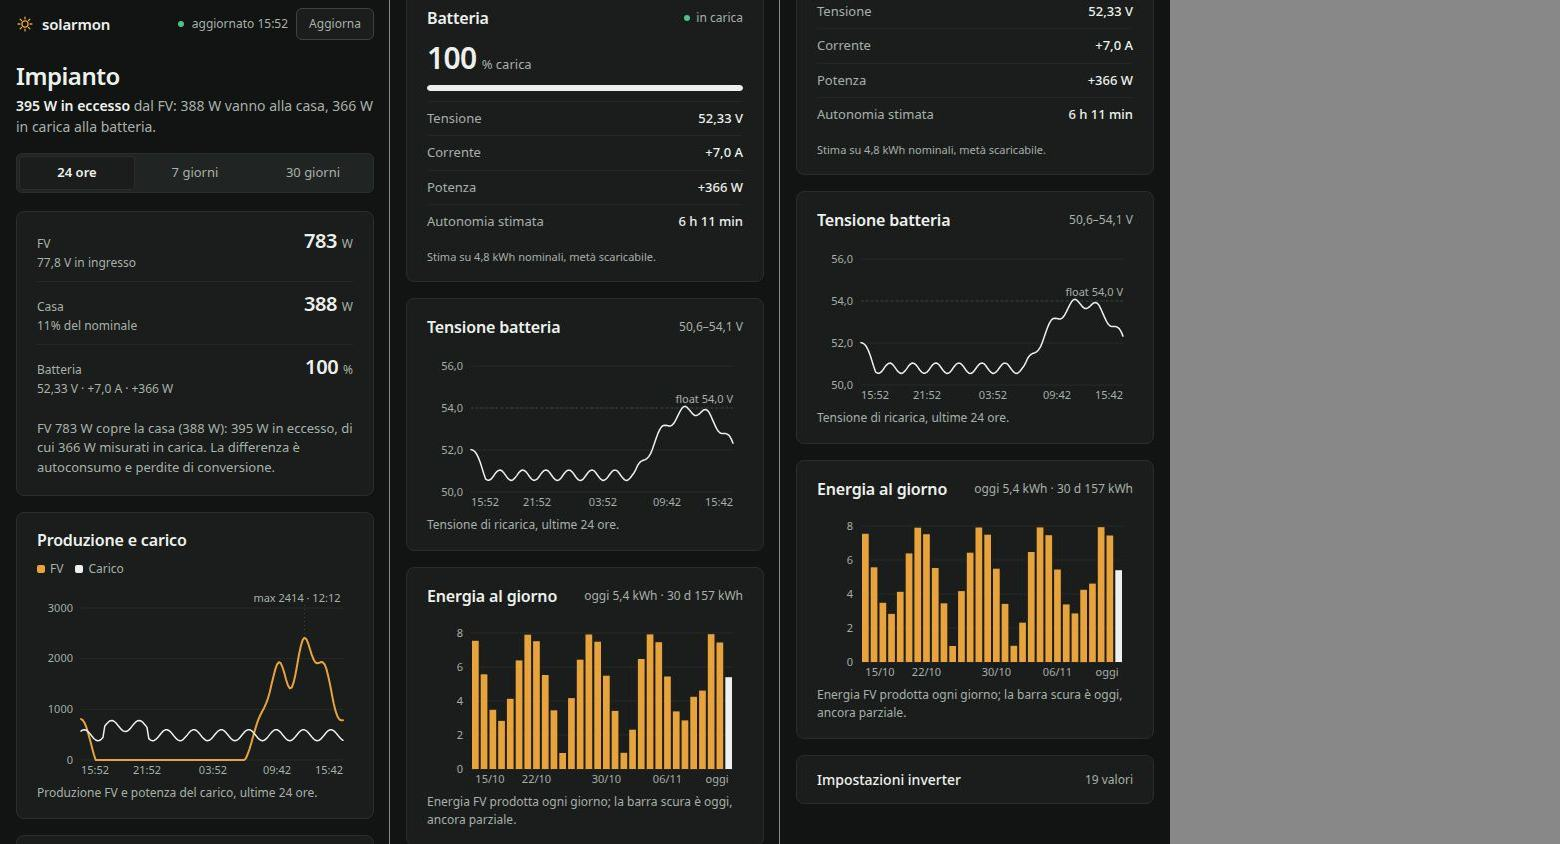
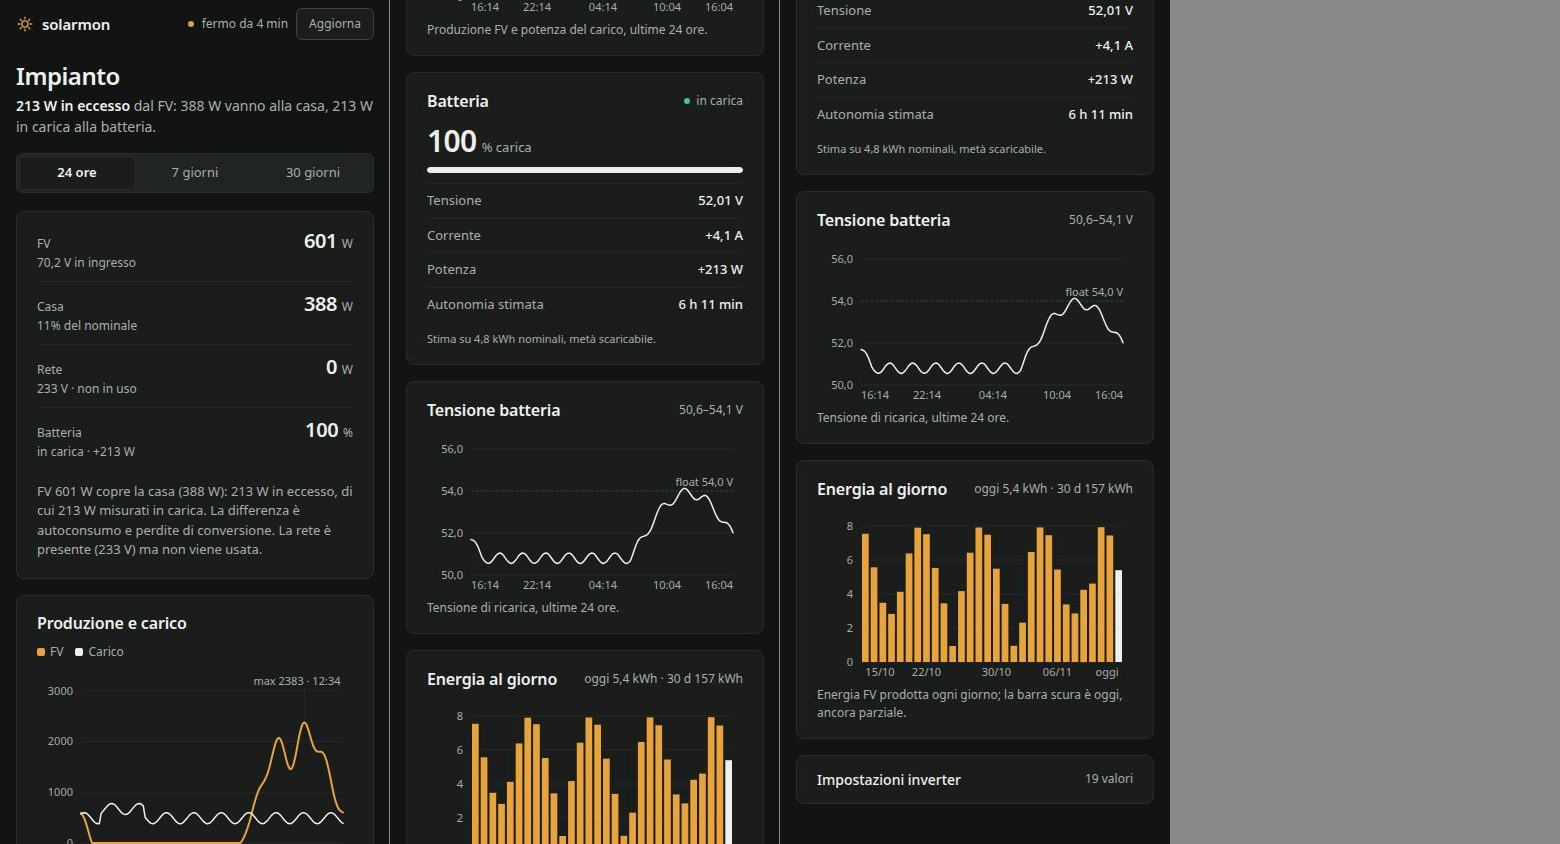
feat: mostra il prelievo dalla rete ricavato da bypass e ricarica
Il PI30 non riporta la corrente in ingresso AC: il valore si stima dal
carico in bypass piu' la ricarica da rete (flag ac_chg), si mostra con
"~" e la frase dichiara la stima. Nodo Rete nella striscia di flusso,
batteria spostata a riga sotto, testi adattati al modo L.

diff --git a/index.html b/index.html
@@ -75,6 +75,8 @@ h1{font-size:var(--fs-title);line-height:1.2;font-weight:600;letter-spacing:-.02
 .flow-link{display:none;flex-direction:column;align-items:center;gap:3px;color:var(--muted);font-size:11px;white-space:nowrap}
 .flow-link svg{width:100%;height:10px;color:var(--control)}
 .flow-link.rev svg{transform:scaleX(-1)}
+.flow-link.idle{opacity:.45}
+.node-batt{grid-column:1/-1}
 .flow-sentence{margin-top:12px;font-size:13px;color:var(--muted);max-width:78ch}
 
 .grid{display:grid;gap:var(--gap)}
@@ -117,12 +119,19 @@ figcaption{margin-top:6px;font-size:12px;color:var(--muted)}
 .note{display:flex;gap:10px;align-items:baseline;flex-wrap:wrap;margin-top:12px;font-size:13px;color:var(--muted);max-width:80ch}
 .pill{display:inline-block;padding:1px 8px;border:1px solid var(--warn-border);border-radius:999px;background:var(--warn-bg);color:var(--warn-ink);font-size:11px;font-weight:600;white-space:nowrap}
 
+@media (min-width:640px){
+  .node-batt{border-top:1px solid var(--rule);padding-top:11px;margin-top:2px}
+}
 @media (min-width:900px){
   .grid{gap:16px}
   .row3{grid-template-columns:repeat(3,1fr)}
   .row3 .panel{min-height:308px}
   .flow-top{grid-template-columns:1fr minmax(84px,.8fr) 1fr minmax(84px,.8fr) 1fr;gap:16px}
   .flow-link{display:flex}
+  .node-batt{display:flex;align-items:baseline;gap:6px 14px}
+  .node-batt .k{flex:none}
+  .node-batt .v{font-size:18px;margin-top:0}
+  .node-batt .s{margin:0 0 0 auto;text-align:right}
 }
 @media (max-width:899px){
   .row3{grid-template-columns:1fr}
@@ -194,9 +203,14 @@ figcaption{margin-top:6px;font-size:12px;color:var(--muted)}
         <p class="v" id="f-house">– <span class="u">W</span></p>
         <p class="s" id="f-houses">–</p>
       </div>
-      <div class="flow-link" id="link-batt" aria-hidden="true">
+      <div class="flow-link rev" id="link-grid" aria-hidden="true">
         <svg viewBox="0 0 80 10" preserveAspectRatio="none"><path d="M0 5h70M64 1.5 70 5l-6 3.5" fill="none" stroke="currentColor" stroke-width="1.5" stroke-linecap="round" stroke-linejoin="round"/></svg>
-        <span>in carica</span>
+        <span>non in uso</span>
+      </div>
+      <div class="node node-grid">
+        <p class="k">Rete</p>
+        <p class="v" id="f-grid">–</p>
+        <p class="s" id="f-grids">–</p>
       </div>
       <div class="node node-batt">
         <p class="k">Batteria</p>
@@ -411,11 +425,15 @@ function barChart(svg, ts, values, opts = {}) {
 const battPower = (gs) => (Number(gs.chg_a) > 0.2 ? Number(gs.batt_v) * Number(gs.chg_a)
   : Number(gs.dis_a) > 0.2 ? -Number(gs.batt_v) * Number(gs.dis_a) : 0);
 
-function paintFinding(gs, faults) {
+function paintFinding(gs, faults, mode) {
   const pv = +gs.pv_w || 0, load = +gs.out_w || 0, bp = battPower(gs);
+  const onGrid = (+gs.grid_v || 0) > 90 && mode === 'L';
   let html;
   if (faults.length) {
     html = `<b>${faults.length === 1 ? '1 allarme attivo' : faults.length + ' allarmi attivi'}</b>: ${esc(faults.join('; '))}`;
+  } else if (onGrid) {
+    html = `<b>Casa in bypass</b>: ${fmt(load)} W presi dalla rete. Il FV produce ${fmt(pv)} W` +
+      (bp > 0 ? `, ${fmt(bp)} W in carica` : '') + '.';
   } else if (pv >= load) {
     html = `<b>${fmt(pv - load)} W in eccesso</b> dal FV: ${fmt(load)} W vanno alla casa` +
       (bp > 0 ? `, ${fmt(bp)} W in carica alla batteria` : '') + '.';
@@ -444,24 +462,46 @@ function notice(msg, bad) {
   n.textContent = msg;
 }
 
-function paintFlow(gs) {
+function paintFlow(gs, mode) {
   const pv = +gs.pv_w || 0, load = +gs.out_w || 0;
   $('f-pv').innerHTML = `${fmt(pv)} <span class="u">W</span>`;
   $('f-pvs').textContent = Number.isFinite(+gs.pv_v) ? fmt(gs.pv_v, 1) + ' V in ingresso' : '–';
   $('f-house').innerHTML = `${fmt(load)} <span class="u">W</span>`;
   $('f-houses').textContent = Number.isFinite(+gs.load_pct) ? fmt(gs.load_pct) + '% del nominale' : '–';
-  $('f-batt').innerHTML = `${fmt(gs.batt_pct)} <span class="u">%</span>`;
   const bp = battPower(gs);
-  const amps = (+gs.chg_a > 0.2 ? '+' + fmt(gs.chg_a, 1) : +gs.dis_a > 0.2 ? '−' + fmt(gs.dis_a, 1) : fmt(0, 1)) + ' A';
-  $('f-batts').textContent = `${fmt(gs.batt_v, 2)} V · ${amps} · ${bp > 0 ? '+' : bp < 0 ? '−' : ''}${fmt(Math.abs(bp))} W`;
-  const surplus = pv - load;
-  const link = $('link-batt');
   const charging = +gs.chg_a > 0.2, discharging = +gs.dis_a > 0.2;
-  link.classList.toggle('rev', discharging && !charging);
-  link.lastElementChild.textContent = charging ? 'in carica' : discharging ? 'in scarica' : 'a riposo';
-  $('flow-sentence').textContent = surplus >= 0
-    ? `FV ${fmt(pv)} W copre la casa (${fmt(load)} W): ${fmt(surplus)} W in eccesso, di cui ${fmt(Math.max(0, bp))} W misurati in carica. La differenza è autoconsumo e perdite di conversione.`
-    : `FV ${fmt(pv)} W non copre la casa (${fmt(load)} W): mancano ${fmt(-surplus)} W${bp < 0 ? `, la batteria ne fornisce ${fmt(-bp)} W` : ''}.`;
+  $('f-batt').innerHTML = `${fmt(gs.batt_pct)} <span class="u">%</span>`;
+  $('f-batts').textContent = (charging ? 'in carica' : discharging ? 'in scarica' : 'a riposo') +
+    (bp ? ` · ${bp > 0 ? '+' : '−'}${fmt(Math.abs(bp))} W` : '');
+
+  // Rete: il PI30 non riporta la corrente in ingresso AC. Il prelievo si ricava dal carico
+  // in bypass piu' la ricarica da rete, quindi si mostra con "≈" e si dichiara stimato.
+  const gv = +gs.grid_v || 0, acIn = gv > 90, onGrid = acIn && mode === 'L';
+  const acCharge = acIn && +gs.ac_chg === 1 && charging;
+  const chgW = acCharge ? (+gs.chg_a) * (+gs.batt_v || 0) : 0;
+  const gridW = acIn ? (onGrid ? load : 0) + chgW : 0;
+  const slot = $('f-grid'), note = $('f-grids'), link = $('link-grid');
+  if (!acIn) { slot.innerHTML = '–'; note.textContent = 'assente'; }
+  else if (gridW < 5) { slot.innerHTML = `0 <span class="u">W</span>`; note.textContent = `${fmt(gv)} V · non in uso`; }
+  else { slot.innerHTML = `≈ ${fmt(gridW)} <span class="u">W</span>`; note.textContent = `${fmt(gv)} V · ${onGrid ? 'bypass' : 'ricarica'}`; }
+  link.classList.toggle('idle', !(acIn && (onGrid || acCharge)));
+  link.lastElementChild.textContent = !acIn ? 'rete assente' : onGrid ? 'dalla rete' : acCharge ? 'ricarica da rete' : 'non in uso';
+
+  const surplus = pv - load;
+  const parts = [];
+  if (onGrid) {
+    parts.push(`Casa in bypass: ${fmt(load)} W presi dalla rete${acCharge ? `, più ≈ ${fmt(chgW)} W di ricarica` : ''}.`);
+    parts.push(`Il FV produce ${fmt(pv)} W.`);
+  } else {
+    parts.push(surplus >= 0
+      ? `FV ${fmt(pv)} W copre la casa (${fmt(load)} W): ${fmt(surplus)} W in eccesso, di cui ${fmt(Math.max(0, bp))} W misurati in carica. La differenza è autoconsumo e perdite di conversione.`
+      : `FV ${fmt(pv)} W non copre la casa (${fmt(load)} W): mancano ${fmt(-surplus)} W${bp < 0 ? `, la batteria ne fornisce ${fmt(-bp)} W` : ''}.`);
+    if (acCharge) parts.push(`In più la rete ricarica la batteria: ≈ ${fmt(chgW)} W.`);
+  }
+  if (!acIn) parts.push('Rete assente: si va di FV e batteria.');
+  else if (gridW >= 5) parts.push(`Il prelievo di rete è stimato: l'inverter non misura la corrente in ingresso AC.`);
+  else parts.push(`La rete è presente (${fmt(gv)} V) ma non viene usata.`);
+  $('flow-sentence').textContent = parts.join(' ');
 }
 
 function paintBattery(gs) {
@@ -558,8 +598,8 @@ function render() {
   if (!NOW) return;
   const gs = NOW.gs || {}, cfg = NOW.cfg || {}, faults = NOW.faults || [];
   paintStatus(NOW, faults);
-  paintFinding(gs, faults);
-  paintFlow(gs);
+  paintFinding(gs, faults, NOW.mode);
+  paintFlow(gs, NOW.mode);
   paintBattery(gs);
   paintScope(cfg);
   paintCharts(cfg);
